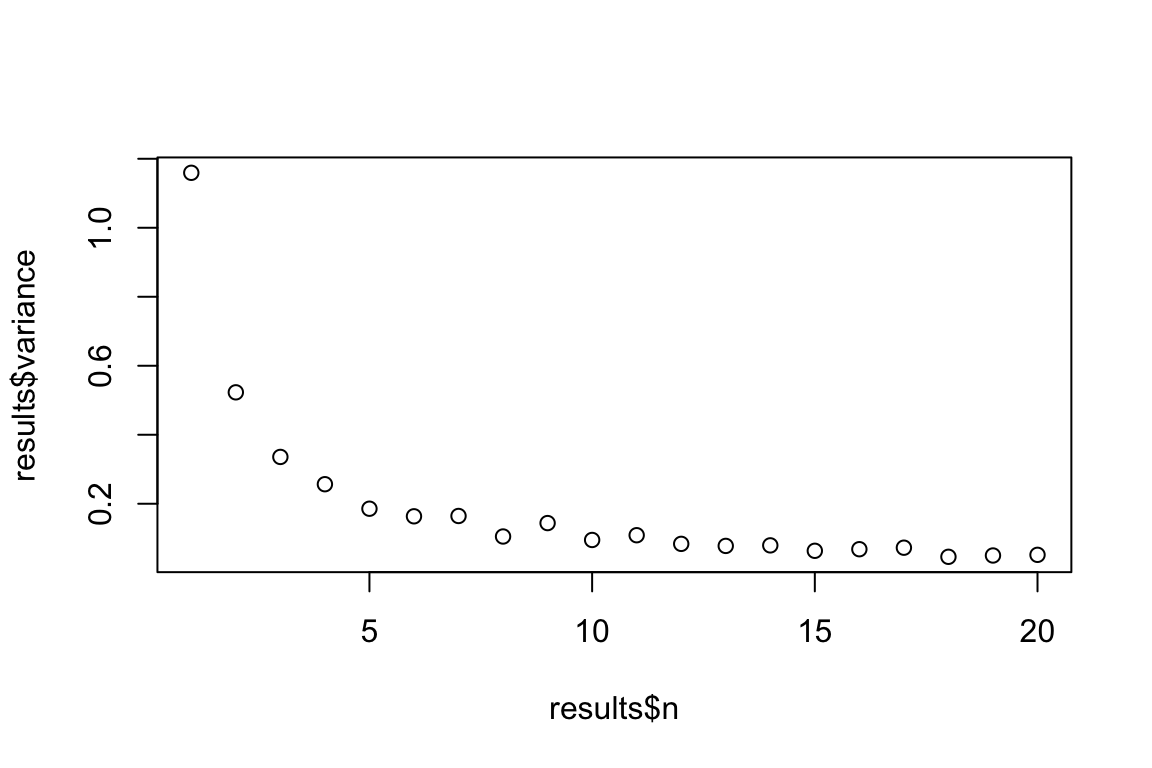
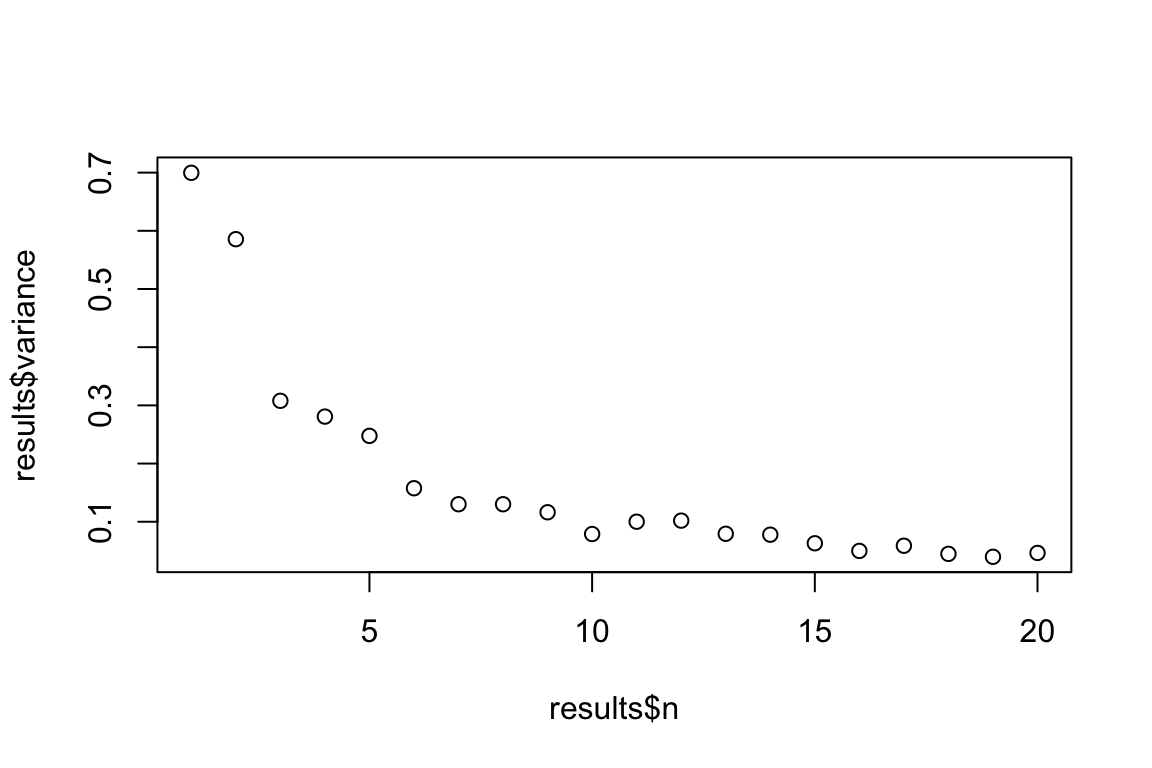
Minor change to for loop page

diff --git a/Simulation.html b/Simulation.html
@@ -483,12 +483,12 @@ div.tocify {
 <pre class="r"><code>rnorm(n = 5,                  # number of observations
       mean = 0,               # vector of means
       sd = 1)                 # vector of standard deviations</code></pre>
-<pre><code>## [1] -1.3379545  0.2936846  0.6625282 -1.9237816  0.0104184</code></pre>
+<pre><code>## [1]  0.1533714  0.9267795 -0.2702374 -0.6083923 -0.4481419</code></pre>
 <p>Because <code>rnorm</code> is expecting a vector for each entry, this function is very flexible. For example we can sample 5 values from normal distributions with different means and different standard deviations without having to re-write the function 5 times.</p>
 <pre class="r"><code>rnorm(n = 5,                  # number of observations
       mean = c(1,2,3,4,5),    # vector of means
       sd = 1:5)               # vector of standard deviations</code></pre>
-<pre><code>## [1]  0.1716334  4.1794572  3.4648268  5.6085421 14.6624739</code></pre>
+<pre><code>## [1]  0.8166096  2.8488032 -0.1313906  6.0187191  9.5859070</code></pre>
 <hr />
 </div>
 <div id="poisson" class="section level3">
@@ -497,11 +497,11 @@ div.tocify {
 <p><strong>Note:</strong> Will only return whole numbers</p>
 <pre class="r"><code>rpois(n = 5,                  # number of observations
       lambda = 1)             # vector of (non-negative) rate parameters</code></pre>
-<pre><code>## [1] 1 2 0 3 2</code></pre>
+<pre><code>## [1] 0 0 1 0 2</code></pre>
 <p>Because <code>rpois</code> is expecting a vector for each entry, this function is very flexible. For example we can sample 5 values from Poisson distributions with different rate parameters <span class="math inline">\(\lambda\)</span>, without having to re-write the function 5 times.</p>
 <pre class="r"><code>rpois(n = 5,                  # number of observations
       lambda = c(1,2,3,4,5))  # vector of (non-negative) rate parameters</code></pre>
-<pre><code>## [1] 2 4 3 3 2</code></pre>
+<pre><code>## [1] 2 4 3 7 4</code></pre>
 <hr />
 </div>
 <div id="binomial" class="section level3">
@@ -510,17 +510,17 @@ div.tocify {
 <pre class="r"><code>rbinom(n = 5,                  # number of observations
        size = 1,               # number of trials (zero or more)
        prob = 0.5)             # probability of success on each trial.</code></pre>
-<pre><code>## [1] 0 1 0 0 0</code></pre>
+<pre><code>## [1] 1 1 0 0 1</code></pre>
 <p>If we change the number of trials we get the number of successes across the number of trials. In this example we have simulated the number of successes in 5 replicates of 20 trials.</p>
 <pre class="r"><code>rbinom(n = 5,                  # number of observations
        size = 20,              # number of trials (zero or more)
        prob = 0.5)             # probability of success on each trial.</code></pre>
-<pre><code>## [1] 15  9  7  9 10</code></pre>
+<pre><code>## [1]  8  4 10 12 13</code></pre>
 <p>Because <code>rbinom</code> is expecting a vector for each entry, this function is very flexible. For example we can simulate the number of successes in 5 replicates of 20 trials, with a different probability of success in each trial</p>
 <pre class="r"><code>rbinom(n = 5,
        size = 20,
        prob = c(0.2, 0.4, 0.6, 0.8, 1))</code></pre>
-<pre><code>## [1]  3  6 13 14 20</code></pre>
+<pre><code>## [1]  4  7 12 18 20</code></pre>
 <hr />
 </div>
 <div id="uniform" class="section level3">
@@ -529,7 +529,7 @@ div.tocify {
 <pre class="r"><code>runif(n = 5,                  # number of observations
       min = 0,                # lower limit of the distribution. Must be finite.
       max = 20)               # upper limit of the distribution. Must be finite.</code></pre>
-<pre><code>## [1] 17.402936 19.996093  5.964549 10.840910  7.480576</code></pre>
+<pre><code>## [1]  6.675490 18.635998 12.815048  2.369326  3.299343</code></pre>
 <p>Unlike the other distributions <code>runif</code> is not expecting vector for the <code>min</code> and <code>max</code> arguments, so this function does not have the same amount of inherent flexibility.</p>
 <hr />
 </div>
@@ -539,10 +539,10 @@ div.tocify {
 <p>When simulating random numbers, setting the random number seed with <code>set.seed()</code> ensures reproducibility of the sequence of random numbers.</p>
 <p>For example, we can sample 5 random numbers from a normal distribution with <code>rnorm()</code>.</p>
 <pre class="r"><code>rnorm(5)</code></pre>
-<pre><code>## [1]  0.9552936 -1.5515620  1.1341260 -0.6192949 -1.0594216</code></pre>
+<pre><code>## [1]  0.3682898 -0.8123683  0.4927394 -0.5489151  1.0979457</code></pre>
 <p>If we do this a second time the sequence of numbers will always be different.</p>
 <pre class="r"><code>rnorm(5)</code></pre>
-<pre><code>## [1] -1.8732204  0.1378886  0.3790235 -1.0254018  0.3123992</code></pre>
+<pre><code>## [1] -2.1302137 -0.4893051 -0.6044130 -1.0712445 -1.5346854</code></pre>
 <p>But if we want to be sure we can get the same sequence of randomly generated numbers every single time, we have to set the seed prior to simulating.</p>
 <pre class="r"><code>set.seed(1)
 rnorm(5)</code></pre>

diff --git a/for_loops.html b/for_loops.html
@@ -504,7 +504,7 @@ div.tocify {
 ## [1] &quot;hello world, I&#39;m replicate 3&quot;
 ## [1] &quot;hello world, I&#39;m replicate 4&quot;
 ## [1] &quot;hello world, I&#39;m replicate 5&quot;</code></pre>
-<p>For loops also don’t have to start at 1, and they don’t have to be perfect sequences of numbers. They can run backwards, start and end at any number you chose, and have gaps. For example, any of these for loops will run without issue.</p>
+<p>For loops also don’t have to start at 1, and they don’t have to be perfect sequences of numbers. They can run backwards, start and end at any number you chose, have gaps, or even be characters. For example, any of these for loops will run without issue.</p>
 <pre class="r"><code>for(i in 3:7){print(i)}</code></pre>
 <pre><code>## [1] 3
 ## [1] 4
@@ -522,6 +522,10 @@ div.tocify {
 ## [1] 3
 ## [1] 5
 ## [1] 7</code></pre>
+<pre class="r"><code>for(i in c(&quot;A&quot;, &quot;B&quot;, &quot;C&quot;)){print(i)}</code></pre>
+<pre><code>## [1] &quot;A&quot;
+## [1] &quot;B&quot;
+## [1] &quot;C&quot;</code></pre>
 <hr />
 </div>
 <div id="saving-the-results-of-a-for-loop" class="section level2">
@@ -540,7 +544,7 @@ for(i in 1:50){
 }
 
 head(MEANS)</code></pre>
-<pre><code>## [1] -0.28088154  0.13025791  0.45777580 -0.04599765 -0.40872039  0.22551510</code></pre>
+<pre><code>## [1]  0.5552271 -0.0839091 -0.3508633 -0.4953009  0.2342995 -0.4336030</code></pre>
 <p>Generally speaking it’s best practice to define the length of the vector before running the for loop. This is because ‘growing’ the length of a variable in a for loop is computationally inefficient and can slow down your code. For simple tasks the difference is trivial, but for complex tasks the slow downs can be very important. Best practice for the previous loop would look like this:</p>
 <pre class="r"><code>MEANS &lt;- vector(&quot;numeric&quot;, length = 50)
 
@@ -559,10 +563,9 @@ for(i in 1:50){
 }
 
 head(MEANS)</code></pre>
-<pre><code>## [1] -0.3923428725  0.0007645963 -0.3049388448 -0.7112285257 -0.1511402200
-## [6]  0.3732955815</code></pre>
+<pre><code>## [1] -0.40320740 -0.43709966 -0.03940612  0.47479210 -0.35480142  0.38320766</code></pre>
 <pre class="r"><code>head(SDs)</code></pre>
-<pre><code>## [1] 0.8579350 0.9087522 1.0520949 1.1298490 1.1325520 1.5364505</code></pre>
+<pre><code>## [1] 0.8373449 0.8978173 0.8082663 0.7844453 1.3066458 1.1584180</code></pre>
 <p>But this can quickly get unwieldy if we have a lot of information we want to save. Another option is to save our outputs in lists. Lists are extremely flexible ways of storing information.</p>
 <pre class="r"><code>RESULTS &lt;- list()
 
@@ -577,34 +580,34 @@ for(i in 1:50){
 
 head(RESULTS)</code></pre>
 <pre><code>## [[1]]
-## [1] -0.2834074  1.3602863  1.8503788
+## [1] -0.4150794  1.1289473  1.2745219
 ## 
 ## [[2]]
-## [1] -0.08129214  1.35447434  1.83460074
+## [1] -0.3929079  0.9273915  0.8600550
 ## 
 ## [[3]]
-## [1] -0.1017015  0.7290523  0.5315173
+## [1] -0.04379119  0.78731950  0.61987199
 ## 
 ## [[4]]
-## [1] 0.1466963 1.1492297 1.3207288
+## [1] 0.06179216 1.04770814 1.09769236
 ## 
 ## [[5]]
-## [1] 0.3252891 1.1315786 1.2804702
+## [1] 0.07961452 0.69754297 0.48656619
 ## 
 ## [[6]]
-## [1] -0.3477964  1.0137605  1.0277104</code></pre>
+## [1] 0.5648456 0.8831922 0.7800285</code></pre>
 <p>Here each slot in the list contains a vector of length 3 which contains the estimated mean, standard deviation, and variance. Storing results in a list is very convenient because everything gets stored in the same object, but working with the results can be challenging. To make it easier to inspect the results of a for loop stored in a list, a bit of post-processing is required to get the data back into an easy to work with format.</p>
 <pre class="r"><code>RESULTS_CLEAN &lt;- do.call(rbind, RESULTS)
 RESULTS_CLEAN &lt;- data.frame(RESULTS_CLEAN)
 names(RESULTS_CLEAN) &lt;- c(&quot;mean&quot;, &quot;sd&quot;, &quot;var&quot;)
 head(RESULTS_CLEAN)</code></pre>
 <pre><code>##          mean        sd       var
-## 1 -0.28340741 1.3602863 1.8503788
-## 2 -0.08129214 1.3544743 1.8346007
-## 3 -0.10170154 0.7290523 0.5315173
-## 4  0.14669634 1.1492297 1.3207288
-## 5  0.32528906 1.1315786 1.2804702
-## 6 -0.34779638 1.0137605 1.0277104</code></pre>
+## 1 -0.41507944 1.1289473 1.2745219
+## 2 -0.39290792 0.9273915 0.8600550
+## 3 -0.04379119 0.7873195 0.6198720
+## 4  0.06179216 1.0477081 1.0976924
+## 5  0.07961452 0.6975430 0.4865662
+## 6  0.56484563 0.8831922 0.7800285</code></pre>
 <hr />
 </div>
 <div id="nested-for-loops" class="section level2">
